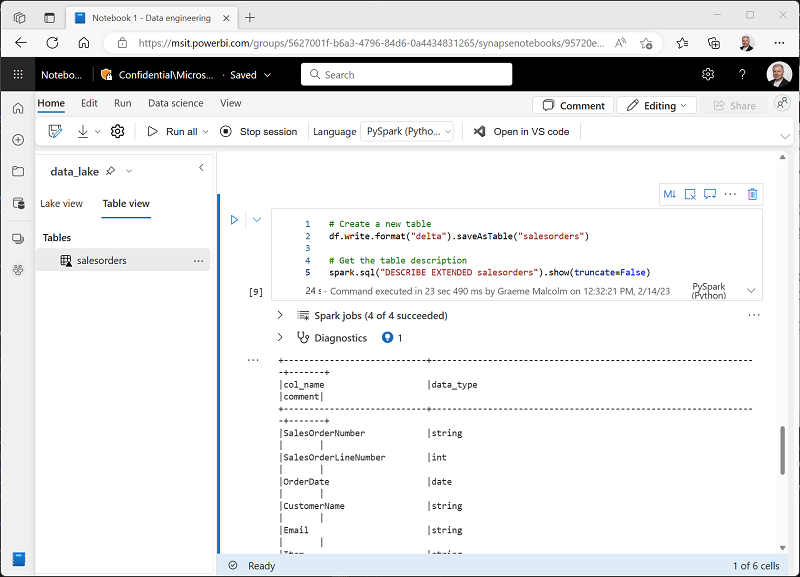
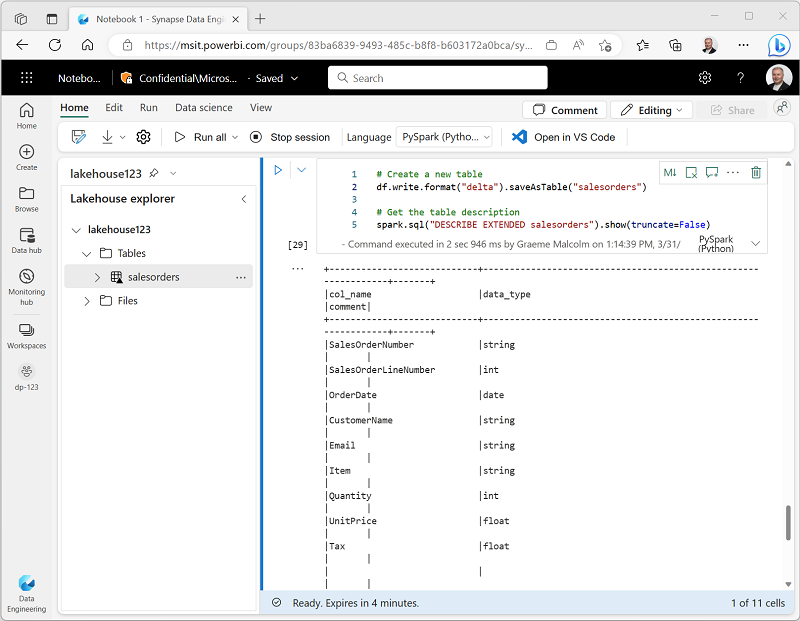
Updates for UI changes

diff --git a/Instructions/Labs/01-analyze-spark.md b/Instructions/Labs/01-analyze-spark.md
@@ -40,12 +40,12 @@ Now that you have a workspace, it's time to switch to the *Data engineering* exp
 
 2. In the **Data engineering** home page, create a new **Lakehouse** with a name of your choice.
 
-    After a minute or so, a new lakehouse with no **Tables** or **Files** will be created. You need to ingest some data into the data lakehouse for analysis. There are multiple ways to do this, but in this exercise you'll simply download and extract a folder of text files your local computer and then upload them to your lakehouse.
+    After a minute or so, a new empty lakehouse will be created. You need to ingest some data into the data lakehouse for analysis. There are multiple ways to do this, but in this exercise you'll simply download and extract a folder of text files your local computer and then upload them to your lakehouse.
 
 3. Download and extract the data files for this exercise from [https://github.com/MicrosoftLearning/dp-data/raw/main/orders.zip](https://github.com/MicrosoftLearning/dp-data/raw/main/orders.zip).
 
 4. After extracting the zipped archive, verify that you have a folder named **orders** that contains CSV files named **2019.csv**, **2020.csv**, and **2021.csv**.
-5. Return to the web browser tab containing your lakehouse, and in the **...** menu for the **Files** node in the **Lake view** pane, select **Upload** and **Upload folder**, and then upload the **orders** folder from your local computer to the lakehouse.
+5. Return to the web browser tab containing your lakehouse, and in the **...** menu for the **Files** folder in the **Lakehouse explorer** pane, select **Upload** and **Upload folder**, and then upload the **orders** folder from your local computer to the lakehouse.
 6. After the files have been uploaded, expand **Files** and select the **orders** folder; and verify that the CSV files have been uploaded, as shown here:
 
     ![Screenshot of uploaded files in a lakehouse.](./Images/uploaded-files.png)
@@ -70,7 +70,7 @@ To work with data in Apache Spark, you can create a *notebook*. Notebooks provid
     Use the code in this notebook to explore sales order data.
     ```
 
-4. Select anywhere in the notebook outside of the cell to stop editing it and see the rendered markdown.
+4. Select the **Edit** button again and then click anywhere in the notebook outside of the cell to stop editing it and see the rendered markdown.
 
 ## Load data into a dataframe
 
@@ -94,7 +94,7 @@ Now you're ready to run code that loads the data into a *dataframe*. Dataframes 
 
 3. Use the **&#9655; Run cell** button on the left of the cell to run it.
 
-    > **Note**: Since this is the first time you've run any Spark code in this session, the Spark pool must be started. This means that the first run in the session can take a minute or so to complete. Subsequent runs will be quicker.
+    > **Note**: Since this is the first time you've run any Spark code, a Spark session must be started. This means that the first run in the session can take a minute or so to complete. Subsequent runs will be quicker.
 
 4. When the cell command has completed, review the output below the cell, which should look similar to this:
 
@@ -275,24 +275,24 @@ A common task for data engineers is to ingest data in a particular format or str
 1. Add a new cell with the following code to save the transformed dataframe in Parquet format (Overwriting the data if it already exists):
 
     ```python
-    transformed_df.write.mode("overwrite").parquet('Files/transformed_data/orders.parquet')
+    transformed_df.write.mode("overwrite").parquet('Files/transformed_data/orders')
     print ("Transformed data saved!")
     ```
 
     > **Note**: Commonly, *Parquet* format is preferred for data files that you will use for further analysis or ingestion into an analytical store. Parquet is a very efficient format that is supported by most large scale data analytics systems. In fact, sometimes your data transformation requirement may simply be to convert data from another format (such as CSV) to Parquet!
 
-2. Run the cell and wait for the message that the data has been saved. Then, on the **Lake view** tab in the pane on the left, in the **...** menu for the **Files** node, select **Refresh**; and select the **transformed_orders** folder to verify that it contains a new file named **orders.parquet**.
+2. Run the cell and wait for the message that the data has been saved. Then, in the **Explorer** pane on the left, in the **...** menu for the **Files** node, select **Refresh**; and select the **transformed_orders** folder to verify that it contains a new folder named **orders**, which in turn contains one or more Parquet files.
 
-    ![Screenshot of a saved orders.parquet file.](./Images/saved-parquet.png)
+    ![Screenshot of a folder containing parquet files.](./Images/saved-parquet.png)
 
-3. Add a new cell with the following code to load a new dataframe from the **orders.parquet** file:
+3. Add a new cell with the following code to load a new dataframe from the parquet files in the **transformed_orders/orders** folder:
 
     ```python
-    orders_df = spark.read.format("parquet").load("Files/transformed_data/orders.parquet")
+    orders_df = spark.read.format("parquet").load("Files/transformed_data/orders")
     display(orders_df)
     ```
 
-4. Run the cell and verify that the results show the order data that has been loaded from the parquet file.
+4. Run the cell and verify that the results show the order data that has been loaded from the parquet files.
 
 ### Save data in partitioned files
 
@@ -303,7 +303,7 @@ A common task for data engineers is to ingest data in a particular format or str
     print ("Transformed data saved!")
     ```
 
-2. Run the cell and wait for the message that the data has been saved. Then, on the **Lake view** tab in the pane on the left, in the **...** menu for the **Files** node, select **Refresh**; and expand the **partitioned_orders** folder to verify that it contains a hierarchy of folders named **Year=*xxxx***, each containing folders named **Month=*xxxx***. Each month folder contains a parquet file with the orders for that month.
+2. Run the cell and wait for the message that the data has been saved. Then, in the **Explorer** pane on the left, in the **...** menu for the **Files** node, select **Refresh**; and expand the **partitioned_orders** folder to verify that it contains a hierarchy of folders named **Year=*xxxx***, each containing folders named **Month=*xxxx***. Each month folder contains a parquet file with the orders for that month.
 
     ![Screenshot of a hierarchy of partitioned data files.](./Images/partitioned-files.png)
 
@@ -340,15 +340,14 @@ Tables in a Spark metastore are relational abstractions over files in the data l
 
 2. Run the code cell and review the output, which describes the definition of the new table.
 
-3. In the **Lake view** pane, in the **...** menu for the **Tables** node, select **Refresh**. Then expand the **Tables** node and select the **salesorders** folder to view the files that have been created for the table data.
+3. In the **Eplorer** pane, in the **...** menu for the **Tables** folder, select **Refresh**. Then expand the **Tables** node and verify that the **salesorders** table has been created.
 
-    ![Screenshot of files for a salesorder table.](./Images/delta-files.png)
+    ---
+    *If refreshing the Tables folder doesn't work, refresh the entire web page!*
 
-    Note that the data is stored in multiple Parquet files named **part-000*xxxx*.parquet**, and that a folder named **_delta_log** has been created to store details of transactions that occur in the table.
+    ---
 
-4. Select the **Table view** tab, and verify that the **salesorders** table is listed in the metastore.
-
-    ![Screenshot of the salesorder table in Table view.](./Images/table-view.png)
+    ![Screenshot of the salesorder table in Explorer.](./Images/table-view.png)
 
 5. In the **...** menu for the **salesorders** table, select **Load data** > **Spark**.
 
